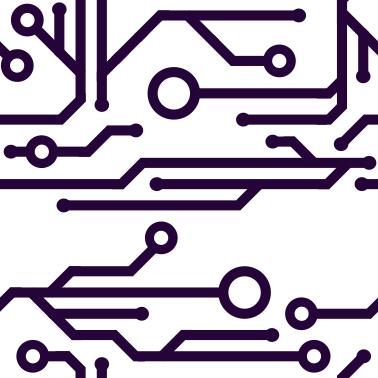
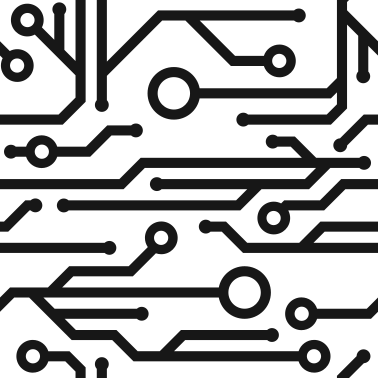
BG to grey and fix js in report dashboard

diff --git a/embark/templates/uploader/reportDashboard.html b/embark/templates/uploader/reportDashboard.html
@@ -1,5 +1,5 @@
 {% extends "uploader/base.html" %}
-{% block title %}EMBArk file upload{% endblock %}
+{% block title %}EMBArk report dashboard{% endblock %}
 {% block navigation %}{% include "uploader/menu.html" %}{% endblock %}
 {% block maincontent %}
 {% load static %}

diff --git a/embark/static/content/css/login.css b/embark/static/content/css/login.css
@@ -7,7 +7,7 @@
 
 html, body {
     height: 100%;
-    background-color: #29043f;
+    background-color: #1a1a1a;
 }
 
 .container-fluid {

diff --git a/embark/templates/uploader/base.html b/embark/templates/uploader/base.html
@@ -56,5 +56,7 @@
 			{% endblock %}
 		</div>
 	</div>
+	{% block js %}
+	{% endblock %}
 </body>
 </html>
